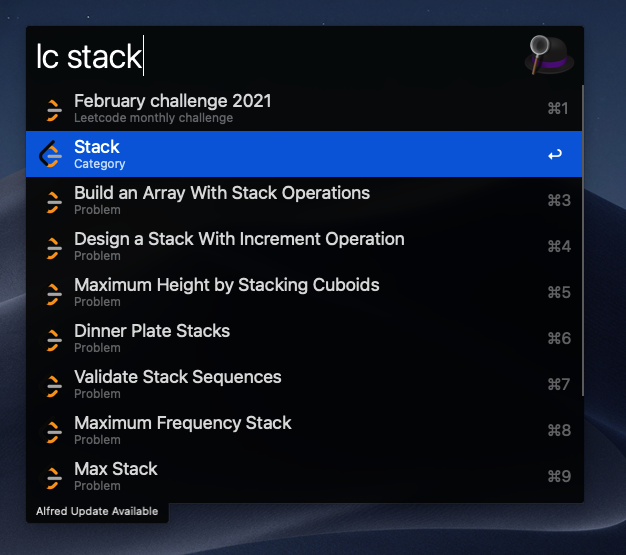
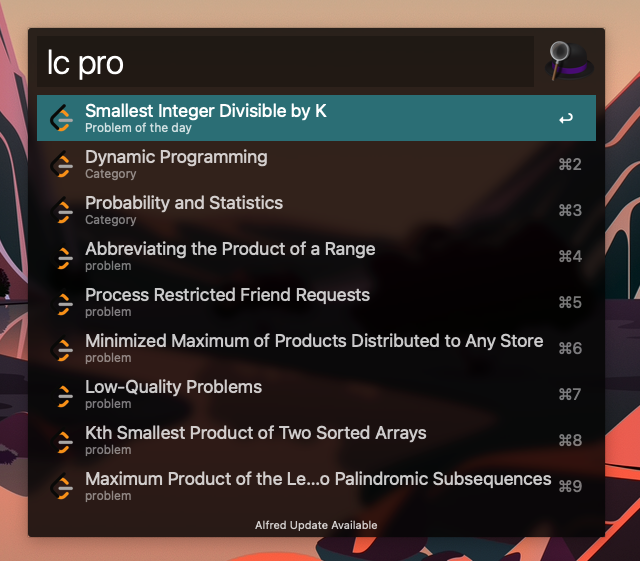
Migrate to leetcode GraphQL to fetch the daily problem

diff --git a/src/Repositories/DailyProblem/DailyProblemRepository.php b/src/Repositories/DailyProblem/DailyProblemRepository.php
@@ -1,0 +1,62 @@
+<?php
+
+namespace App\Repositories\DailyProblem;
+
+use App\Entities\LeetCodeItem;
+use App\Entities\LeetCodeType;
+use Symfony\Component\HttpClient\HttpClient;
+use Symfony\Contracts\HttpClient\HttpClientInterface;
+
+class DailyProblemRepository implements DailyProblemRepositoryInterface
+{
+	/**
+	 * @var HttpClient
+	 */
+	private $client;
+
+	public function __construct(HttpClientInterface $client)
+	{
+		$this->client = $client;
+	}
+
+	public function get(): array
+	{
+
+		$response = $this->client->request('POST', 'https://leetcode.com/graphql', [
+			'json' => [
+				'query' => 'query questionOfToday {activeDailyCodingChallengeQuestion {link question { title }}}',
+			],
+		]);
+
+		return $this->hydrate($response->toArray()['data']['activeDailyCodingChallengeQuestion'] ?? null);
+	}
+
+	/**
+	 * @param string $query
+	 *
+	 * @return array
+	 */
+	public function search($query): array
+	{
+		return $this->get();
+	}
+
+	/**
+	 * @param array $data
+	 *
+	 * @return LeetCodeItem[]
+	 */
+	private function hydrate(array $data)
+	{
+		if($data === null) {
+			return [];
+		}
+
+		$leetcode = new LeetCodeItem();
+		$leetcode->setName($data['question']['title']);
+		$leetcode->setType(LeetCodeType::PROBLEM_OF_THE_DAY);
+		$leetcode->setSlug($data['link']);
+
+		return [$leetcode];
+	}
+}

diff --git a/src/Services/DailyProblemsService.php b/src/Services/DailyProblemsService.php
@@ -1,0 +1,38 @@
+<?php
+
+namespace App\Services;
+
+use Alfred\Workflows\Workflow;
+use App\Repositories\DailyProblem\DailyProblemRepositoryInterface;
+
+class DailyProblemsService implements ServiceInterface
+{
+    /**
+     * @var DailyProblemRepositoryInterface
+     */
+    private $repository;
+
+    /**
+     * DataStructureService constructor.
+     *
+     * @param DailyProblemRepositoryInterface $repository
+     */
+    public function __construct(DailyProblemRepositoryInterface $repository)
+    {
+        $this->repository = $repository;
+    }
+
+    public function run(string $query, Workflow $workflow)
+    {
+        $data = $this->repository->search($query);
+
+        foreach ($data as $item) {
+            $workflow->result()
+                ->icon('favicon.png')
+                ->title($item->getName())
+                ->subtitle($item->getType())
+                ->arg(sprintf('https://leetcode.com%s', $item->getSlug()))
+                ->valid(true);
+        }
+    }
+}

diff --git a/leetcode.php b/leetcode.php
@@ -2,9 +2,11 @@
 
 use Alfred\Workflows\Workflow;
 use App\Application;
+use App\Repositories\DailyProblem\DailyProblemRepository;
 use App\Repositories\DataStructures\DataStructuresCacheRepository;
 use App\Repositories\Problems\ProblemCacheRepository;
 use App\Services\ChallengesService;
+use App\Services\DailyProblemsService;
 use App\Services\DataStructureService;
 use App\Services\ProblemsService;
 use Symfony\Component\Cache\Adapter\FilesystemAdapter;
@@ -18,7 +20,7 @@ if (count($argv) > 0) {
 $query = strtolower(implode(' ', $argv));
 
 $app = new Application($query, new Workflow());
-$app->addService(new ChallengesService());
+$app->addService(new DailyProblemsService(new DailyProblemRepository(HttpClient::create())));
 $app->addService(new DataStructureService(new DataStructuresCacheRepository(HttpClient::create(), new FilesystemAdapter())));
 $app->addService(new ProblemsService(new ProblemCacheRepository(HttpClient::create(), new FilesystemAdapter())));
 echo $app->run();

diff --git a/src/Repositories/DailyProblem/DailyProblemRepositoryInterface.php b/src/Repositories/DailyProblem/DailyProblemRepositoryInterface.php
@@ -1,0 +1,9 @@
+<?php
+
+namespace App\Repositories\DailyProblem;
+
+use App\Repositories\RepositoryInterface;
+
+interface DailyProblemRepositoryInterface extends RepositoryInterface
+{
+}

diff --git a/src/Entities/LeetCodeType.php b/src/Entities/LeetCodeType.php
@@ -6,4 +6,5 @@ class LeetCodeType
 {
     const CATEGORY = 'Category';
     const PROBLEM = 'problem';
+    const PROBLEM_OF_THE_DAY = 'Problem of the day';
 }

diff --git a/README.md b/README.md
@@ -12,10 +12,14 @@ An ultra-fast Leetcode search workflow for [Alfred 3+](https://www.alfredapp.com
 
 ## Usage
 
+#### Getting the daily problem
+the daily problem from leetcode monthly challenge always appear at the top of the list.
+
+#### Search for problems or categories
 Just type `lc` followed by your search query.
 
 ```
-ld <query>
-ld stack
-ld two sum
+lc <query>
+lc stack
+lc two sum
 ```
